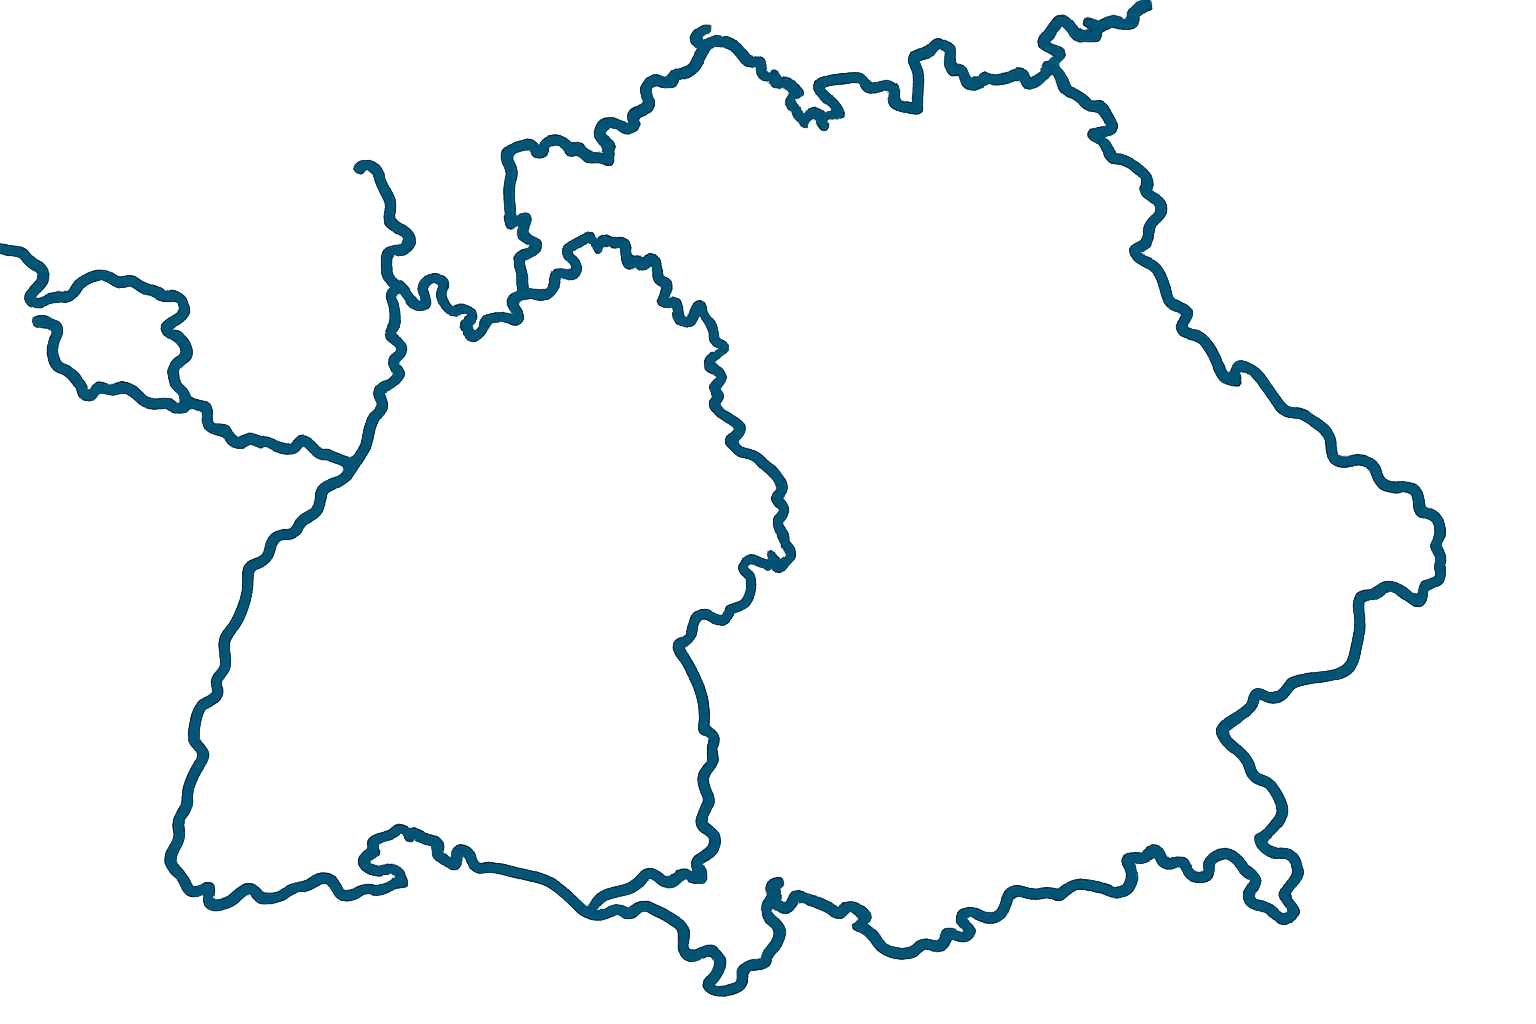
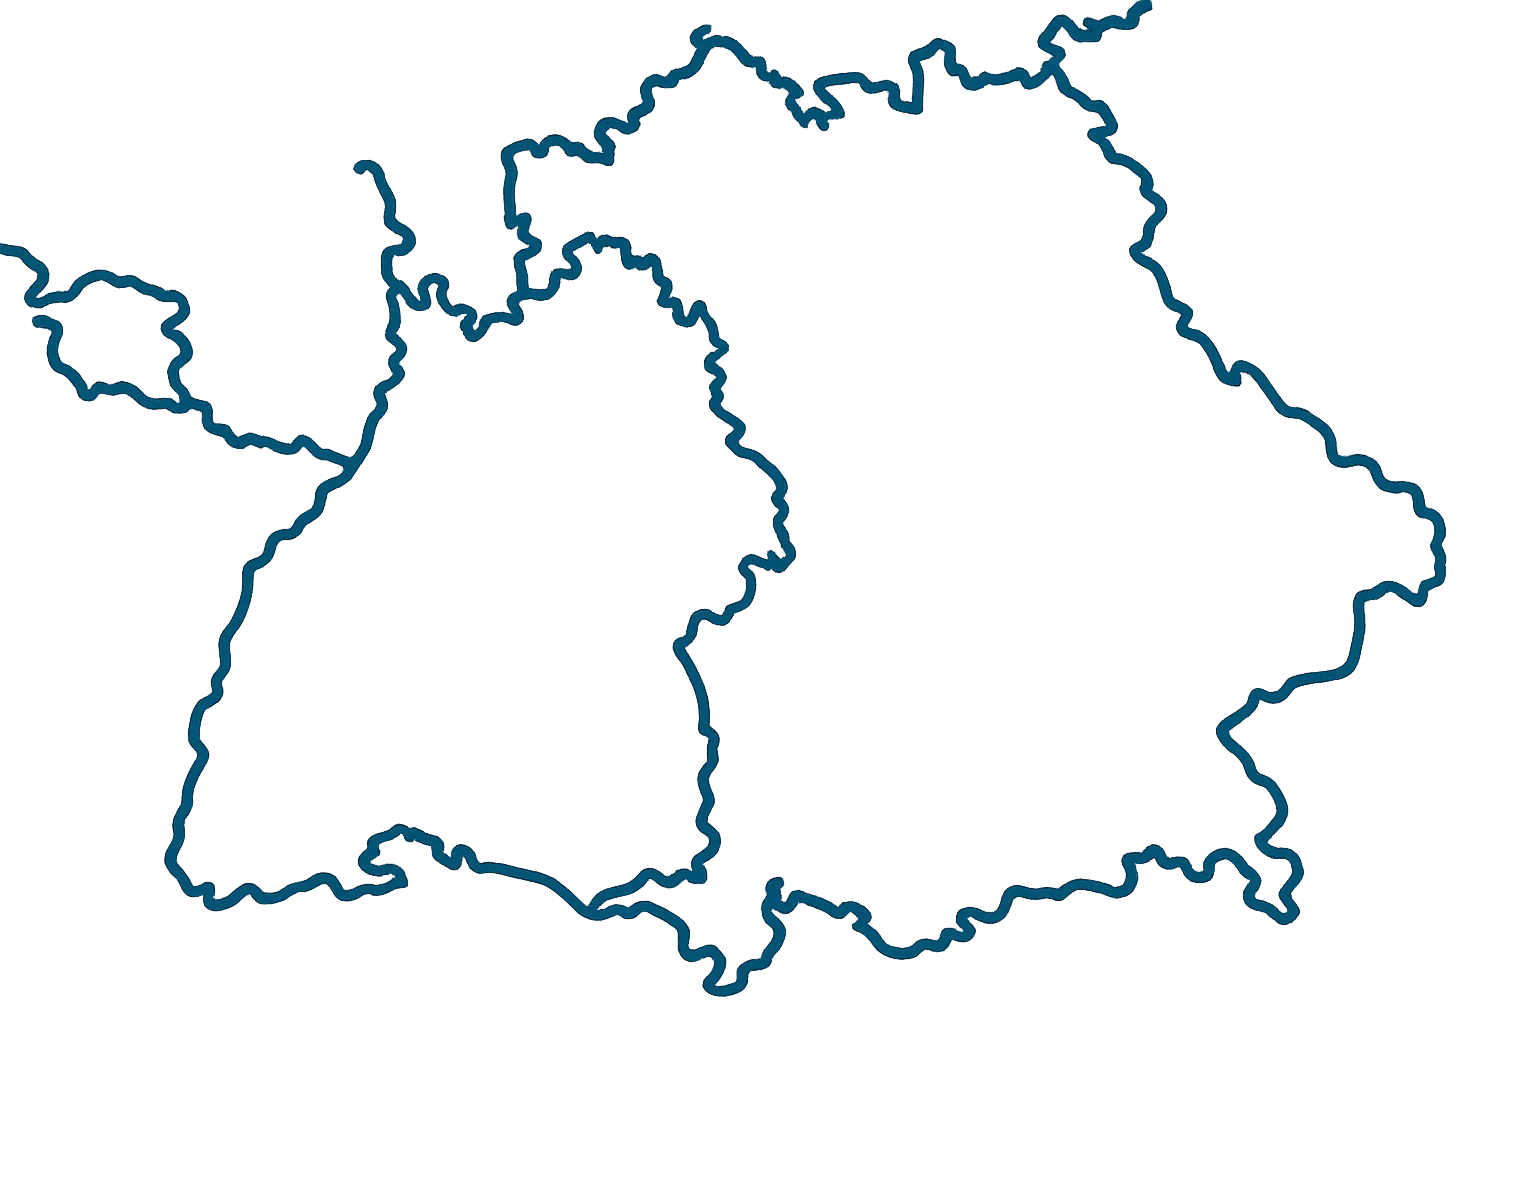
Standorte: GPS-Symbole verschiebbar, Leertaste speichert Name + Koordinaten, Doppelklick öffnet Standort
Made-with: Cursor

Changed region(s): [[0.0, 0.0, 0.9688, 0.9688], [0.5625, 0.5938, 0.875, 0.9375]]

diff --git a/components/standorte/KartenMitKoordinatenErfassen.tsx b/components/standorte/KartenMitKoordinatenErfassen.tsx
@@ -3,6 +3,7 @@
 import { useRef, useState, useCallback, useEffect } from "react";
 import Image from "next/image";
 import Link from "next/link";
+import { useRouter } from "next/navigation";
 
 type Hauptmarker = { left: number; top: number; label: string; sublabel?: string; href?: string; labelAbove?: boolean };
 type Punkt = { left: number; top: number };
@@ -15,10 +16,22 @@ type Props = {
 };
 
 export function KartenMitKoordinatenErfassen({ hauptmarker, punkte, ortsLabels = [] }: Props) {
+  const router = useRouter();
   const mapRef = useRef<HTMLDivElement>(null);
   const [erfassenAktiv, setErfassenAktiv] = useState(false);
   const [mouseProzent, setMouseProzent] = useState<{ left: number; top: number } | null>(null);
   const [gespeichert, setGespeichert] = useState<Array<{ left: number; top: number }>>([]);
+
+  const [markerPositions, setMarkerPositions] = useState<Array<{ left: number; top: number }>>(() =>
+    hauptmarker.map((m) => ({ left: m.left, top: m.top }))
+  );
+  const [selectedMarkerIndex, setSelectedMarkerIndex] = useState<number | null>(null);
+  const [savedMarkerPositions, setSavedMarkerPositions] = useState<
+    Array<{ name: string; left: number; top: number }>
+  >([]);
+  const dragRef = useRef<{ index: number; startLeft: number; startTop: number; startX: number; startY: number } | null>(null);
+  const didDragRef = useRef(false);
+  const pendingSelectRef = useRef<number | null>(null);
 
   const updateMouse = useCallback(
     (e: MouseEvent) => {
@@ -34,27 +47,104 @@ export function KartenMitKoordinatenErfassen({ hauptmarker, punkte, ortsLabels =
 
   const handleKeyDown = useCallback(
     (e: KeyboardEvent) => {
-      if (!erfassenAktiv || e.code !== "Space") return;
-      e.preventDefault();
-      if (mouseProzent) {
+      if (e.code !== "Space") return;
+      if (erfassenAktiv && mouseProzent) {
+        e.preventDefault();
         setGespeichert((prev) => [...prev, { ...mouseProzent }]);
+        return;
+      }
+      if (selectedMarkerIndex !== null) {
+        e.preventDefault();
+        const m = hauptmarker[selectedMarkerIndex];
+        const pos = markerPositions[selectedMarkerIndex];
+        if (pos) {
+          const name = m.sublabel ? `${m.label} ${m.sublabel}` : m.label;
+          setSavedMarkerPositions((prev) => [
+            ...prev,
+            { name, left: Math.round(pos.left * 10) / 10, top: Math.round(pos.top * 10) / 10 },
+          ]);
+        }
       }
     },
-    [erfassenAktiv, mouseProzent]
+    [erfassenAktiv, mouseProzent, selectedMarkerIndex, hauptmarker, markerPositions]
   );
 
-  useEffect(() => {
-    if (!erfassenAktiv) {
-      setMouseProzent(null);
-      return;
+  const handleMarkerMouseDown = useCallback(
+    (e: React.MouseEvent, index: number) => {
+      e.preventDefault();
+      didDragRef.current = false;
+      pendingSelectRef.current = index;
+      const rect = mapRef.current?.getBoundingClientRect();
+      if (!rect) return;
+      const pos = markerPositions[index];
+      dragRef.current = {
+        index,
+        startLeft: pos.left,
+        startTop: pos.top,
+        startX: e.clientX,
+        startY: e.clientY,
+      };
+    },
+    [markerPositions]
+  );
+
+  const handleGlobalMouseMove = useCallback(
+    (e: MouseEvent) => {
+      if (!dragRef.current) return;
+      const rect = mapRef.current?.getBoundingClientRect();
+      if (!rect) return;
+      didDragRef.current = true;
+      const { index, startLeft, startTop, startX, startY } = dragRef.current;
+      const deltaX = ((e.clientX - startX) / rect.width) * 100;
+      const deltaY = ((e.clientY - startY) / rect.height) * 100;
+      setMarkerPositions((prev) => {
+        const next = [...prev];
+        next[index] = {
+          left: Math.max(0, Math.min(100, startLeft + deltaX)),
+          top: Math.max(0, Math.min(100, startTop + deltaY)),
+        };
+        return next;
+      });
+    },
+    []
+  );
+
+  const handleGlobalMouseUp = useCallback(() => {
+    if (!didDragRef.current && pendingSelectRef.current !== null) {
+      setSelectedMarkerIndex(pendingSelectRef.current);
     }
+    pendingSelectRef.current = null;
+    dragRef.current = null;
+  }, []);
+
+  useEffect(() => {
+    if (erfassenAktiv) {
+      setMouseProzent(null);
+    }
+  }, [erfassenAktiv]);
+
+  useEffect(() => {
+    const onKeyDown = (e: KeyboardEvent) => handleKeyDown(e);
+    window.addEventListener("keydown", onKeyDown);
+    return () => window.removeEventListener("keydown", onKeyDown);
+  }, [handleKeyDown]);
+
+  useEffect(() => {
+    if (!erfassenAktiv) return;
     window.addEventListener("mousemove", updateMouse);
-    window.addEventListener("keydown", handleKeyDown);
+    return () => window.removeEventListener("mousemove", updateMouse);
+  }, [erfassenAktiv, updateMouse]);
+
+  useEffect(() => {
+    window.addEventListener("mousemove", handleGlobalMouseMove);
+    window.addEventListener("mouseup", handleGlobalMouseUp);
+    window.addEventListener("mouseleave", handleGlobalMouseUp);
     return () => {
-      window.removeEventListener("mousemove", updateMouse);
-      window.removeEventListener("keydown", handleKeyDown);
+      window.removeEventListener("mousemove", handleGlobalMouseMove);
+      window.removeEventListener("mouseup", handleGlobalMouseUp);
+      window.removeEventListener("mouseleave", handleGlobalMouseUp);
     };
-  }, [erfassenAktiv, updateMouse, handleKeyDown]);
+  }, [handleGlobalMouseMove, handleGlobalMouseUp]);
 
   return (
     <div className="flex flex-col gap-3">
@@ -112,7 +202,9 @@ export function KartenMitKoordinatenErfassen({ hauptmarker, punkte, ortsLabels =
               )}
             </div>
           ))}
-          {hauptmarker.map((m) => {
+          {hauptmarker.map((m, i) => {
+            const pos = markerPositions[i] ?? { left: m.left, top: m.top };
+            const isSelected = selectedMarkerIndex === i;
             const textShadow = [
               "0 0 2px white",
               "1px 0 0 white", "-1px 0 0 white", "0 1px 0 white", "0 -1px 0 white",
@@ -155,7 +247,6 @@ export function KartenMitKoordinatenErfassen({ hauptmarker, punkte, ortsLabels =
                 </svg>
               </span>
             );
-            /* Icon immer unten, damit die Pin-Spitze auf der Koordinate liegt (transform: translate(-50%, 100%)) */
             const content = m.labelAbove ? (
               <>
                 <span className="mb-1.5">{labelEl}</span>
@@ -168,27 +259,52 @@ export function KartenMitKoordinatenErfassen({ hauptmarker, punkte, ortsLabels =
               </>
             );
             const style = {
-              left: `${m.left}%`,
-              top: `${m.top}%`,
+              left: `${pos.left}%`,
+              top: `${pos.top}%`,
               transform: "translate(-50%, 100%)",
             };
-            const animDelay = 400 + (hauptmarker.indexOf(m) * 120);
+            const animDelay = 400 + (i * 120);
             const commonStyle = { ...style, animationDelay: `${animDelay}ms` };
+            const markerClassName = `absolute flex flex-col items-center pointer-events-auto rounded-lg transition-opacity hover:opacity-90 focus:outline-none focus:ring-2 focus:ring-[#0F4F68] focus:ring-offset-2 focus:ring-offset-transparent animate-marker-slide-in cursor-grab active:cursor-grabbing ${isSelected ? "ring-2 ring-[#F78F2E] ring-offset-2 ring-offset-white" : ""}`;
+            const handleClick = (e: React.MouseEvent) => {
+              e.preventDefault();
+              if (!didDragRef.current) setSelectedMarkerIndex(i);
+            };
             if (m.href) {
               return (
                 <Link
                   key={m.label}
                   href={m.href}
-                  className="absolute flex flex-col items-center pointer-events-auto rounded-lg transition-opacity hover:opacity-90 focus:outline-none focus:ring-2 focus:ring-[#0F4F68] focus:ring-offset-2 focus:ring-offset-transparent animate-marker-slide-in"
+                  className={markerClassName}
                   style={commonStyle}
-                  aria-label={`${m.label} – Standort anzeigen`}
+                  aria-label={`${m.label} – Klick: auswählen. Doppelklick: Standort öffnen. Leertaste: Position speichern.`}
+                  onMouseDown={(e) => handleMarkerMouseDown(e, i)}
+                  onClick={handleClick}
+                  onDoubleClick={(e) => {
+                    e.preventDefault();
+                    router.push(m.href!);
+                  }}
                 >
                   {content}
                 </Link>
               );
             }
             return (
-              <div key={m.label} className="absolute flex flex-col items-center pointer-events-none animate-marker-slide-in" style={commonStyle}>
+              <div
+                key={m.label}
+                className={markerClassName}
+                style={commonStyle}
+                role="button"
+                tabIndex={0}
+                onMouseDown={(e) => handleMarkerMouseDown(e, i)}
+                onClick={() => setSelectedMarkerIndex(i)}
+                onKeyDown={(e) => {
+                  if (e.code === "Space" || e.code === "Enter") {
+                    e.preventDefault();
+                    setSelectedMarkerIndex(i);
+                  }
+                }}
+              >
                 {content}
               </div>
             );
@@ -210,27 +326,34 @@ export function KartenMitKoordinatenErfassen({ hauptmarker, punkte, ortsLabels =
         )}
       </div>
 
-      {/* Button unter der Karte */}
-      <div className="flex flex-wrap items-center gap-2">
-        <button
-          type="button"
-          onClick={() => setErfassenAktiv((a) => !a)}
-          className={`rounded-lg px-4 py-2 text-sm font-semibold transition-colors focus:outline-none focus:ring-2 focus:ring-[#0F4F68] focus:ring-offset-2 ${
-            erfassenAktiv
-              ? "bg-[#F78F2E] text-white hover:bg-[#e07d1f]"
-              : "bg-[#0F4F68] text-white hover:bg-[#0c3d52]"
-          }`}
-        >
-          {erfassenAktiv ? "Koordinaten-Erfassung an" : "GPS-Koordinaten erfassen"}
-        </button>
-        {erfassenAktiv && (
-          <span className="text-sm text-neutral-600">
-            Maus auf Karte bewegen → Leertaste = Punkt speichern
-          </span>
+      {/* Button unter der Karte + Hinweise */}
+      <div className="flex flex-col gap-2">
+        <div className="flex flex-wrap items-center gap-2">
+          <button
+            type="button"
+            onClick={() => setErfassenAktiv((a) => !a)}
+            className={`rounded-lg px-4 py-2 text-sm font-semibold transition-colors focus:outline-none focus:ring-2 focus:ring-[#0F4F68] focus:ring-offset-2 ${
+              erfassenAktiv
+                ? "bg-[#F78F2E] text-white hover:bg-[#e07d1f]"
+                : "bg-[#0F4F68] text-white hover:bg-[#0c3d52]"
+            }`}
+          >
+            {erfassenAktiv ? "Koordinaten-Erfassung an" : "GPS-Koordinaten erfassen"}
+          </button>
+          {erfassenAktiv && (
+            <span className="text-sm text-neutral-600">
+              Maus auf Karte bewegen → Leertaste = Punkt speichern
+            </span>
+          )}
+        </div>
+        {selectedMarkerIndex !== null && (
+          <p className="text-sm font-medium text-[#0F4F68]">
+            <strong>{hauptmarker[selectedMarkerIndex]?.label}</strong> ausgewählt – Leertaste = Name + Koordinaten speichern. Doppelklick auf Symbol = Standort öffnen.
+          </p>
         )}
       </div>
 
-      {/* Gespeicherte Koordinaten zum Kopieren */}
+      {/* Gespeicherte Koordinaten (Maus-Klick-Modus) */}
       {gespeichert.length > 0 && (
         <div className="rounded-lg border border-[#0F4F68]/20 bg-[#F2F9FA] p-4">
           <p className="mb-2 text-sm font-semibold text-[#0F4F68]">
@@ -244,6 +367,27 @@ export function KartenMitKoordinatenErfassen({ hauptmarker, punkte, ortsLabels =
           <button
             type="button"
             onClick={() => setGespeichert([])}
+            className="mt-2 text-sm text-[#0F4F68] underline hover:no-underline"
+          >
+            Liste leeren
+          </button>
+        </div>
+      )}
+
+      {/* Gespeicherte Standort-Positionen (Marker verschieben + Leertaste) */}
+      {savedMarkerPositions.length > 0 && (
+        <div className="rounded-lg border border-[#0F4F68]/20 bg-[#F2F9FA] p-4">
+          <p className="mb-2 text-sm font-semibold text-[#0F4F68]">
+            Gespeicherte Standort-Positionen (Name + % Koordinaten):
+          </p>
+          <pre className="max-h-48 overflow-auto rounded bg-white p-3 text-xs text-neutral-800">
+            {savedMarkerPositions
+              .map((s) => `${s.name}, left: ${s.left}, top: ${s.top}`)
+              .join("\n")}
+          </pre>
+          <button
+            type="button"
+            onClick={() => setSavedMarkerPositions([])}
             className="mt-2 text-sm text-[#0F4F68] underline hover:no-underline"
           >
             Liste leeren
